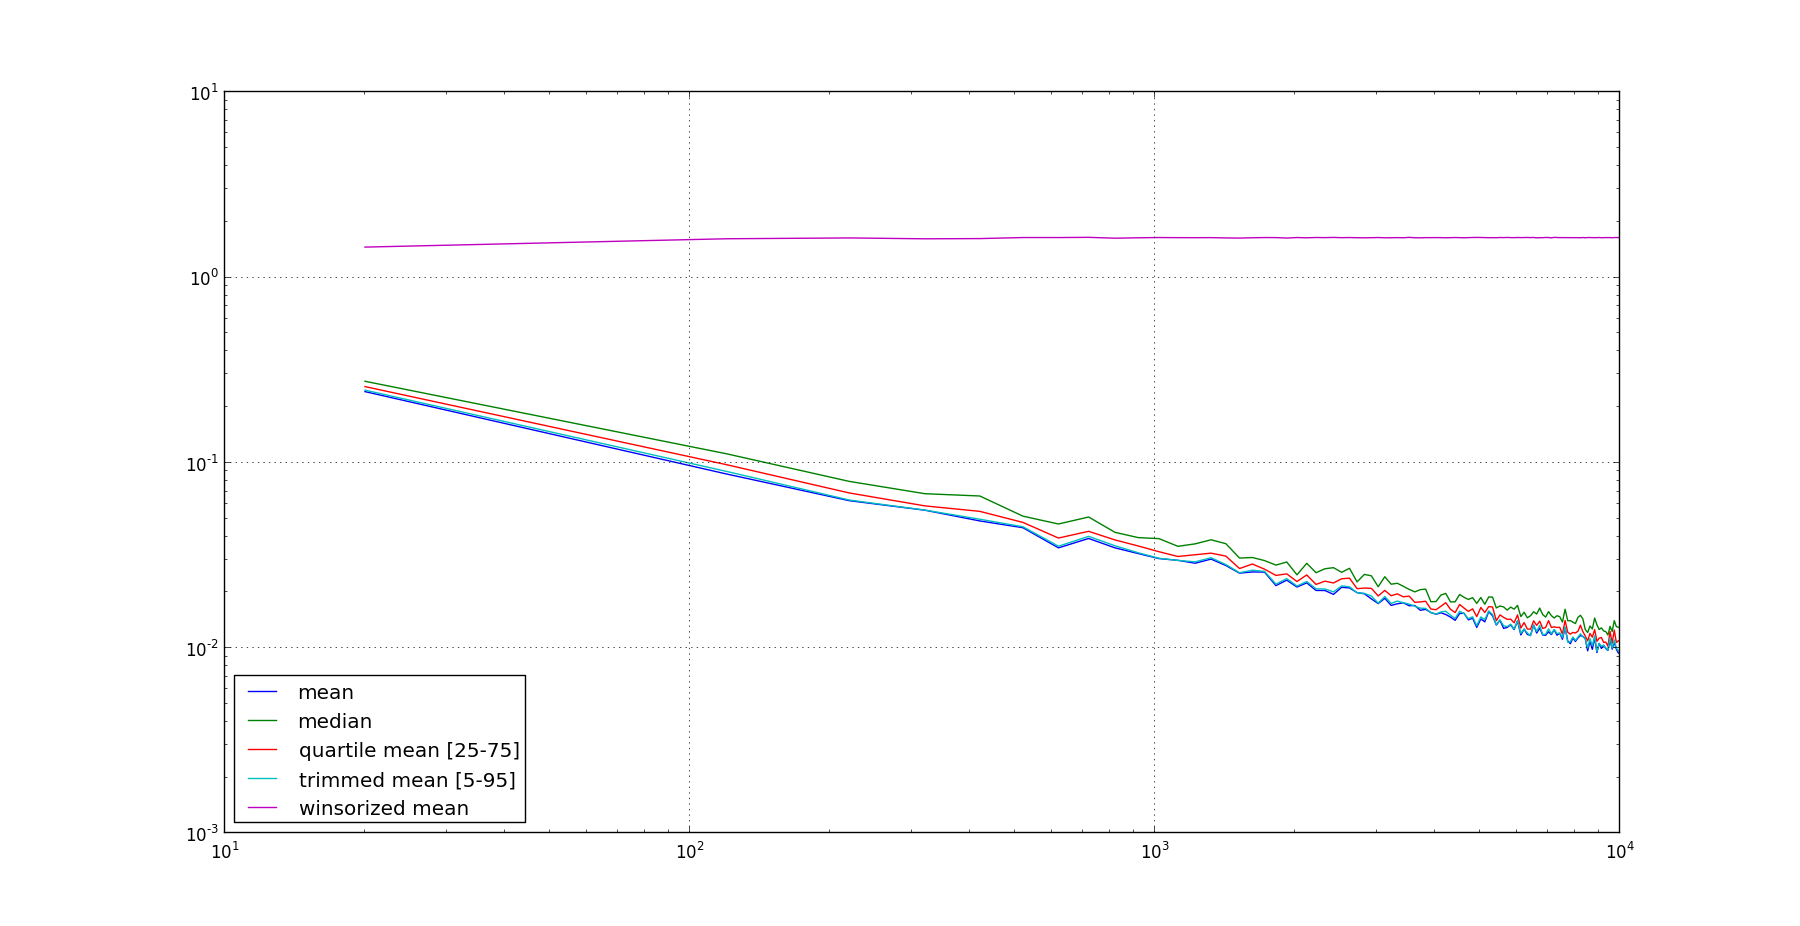
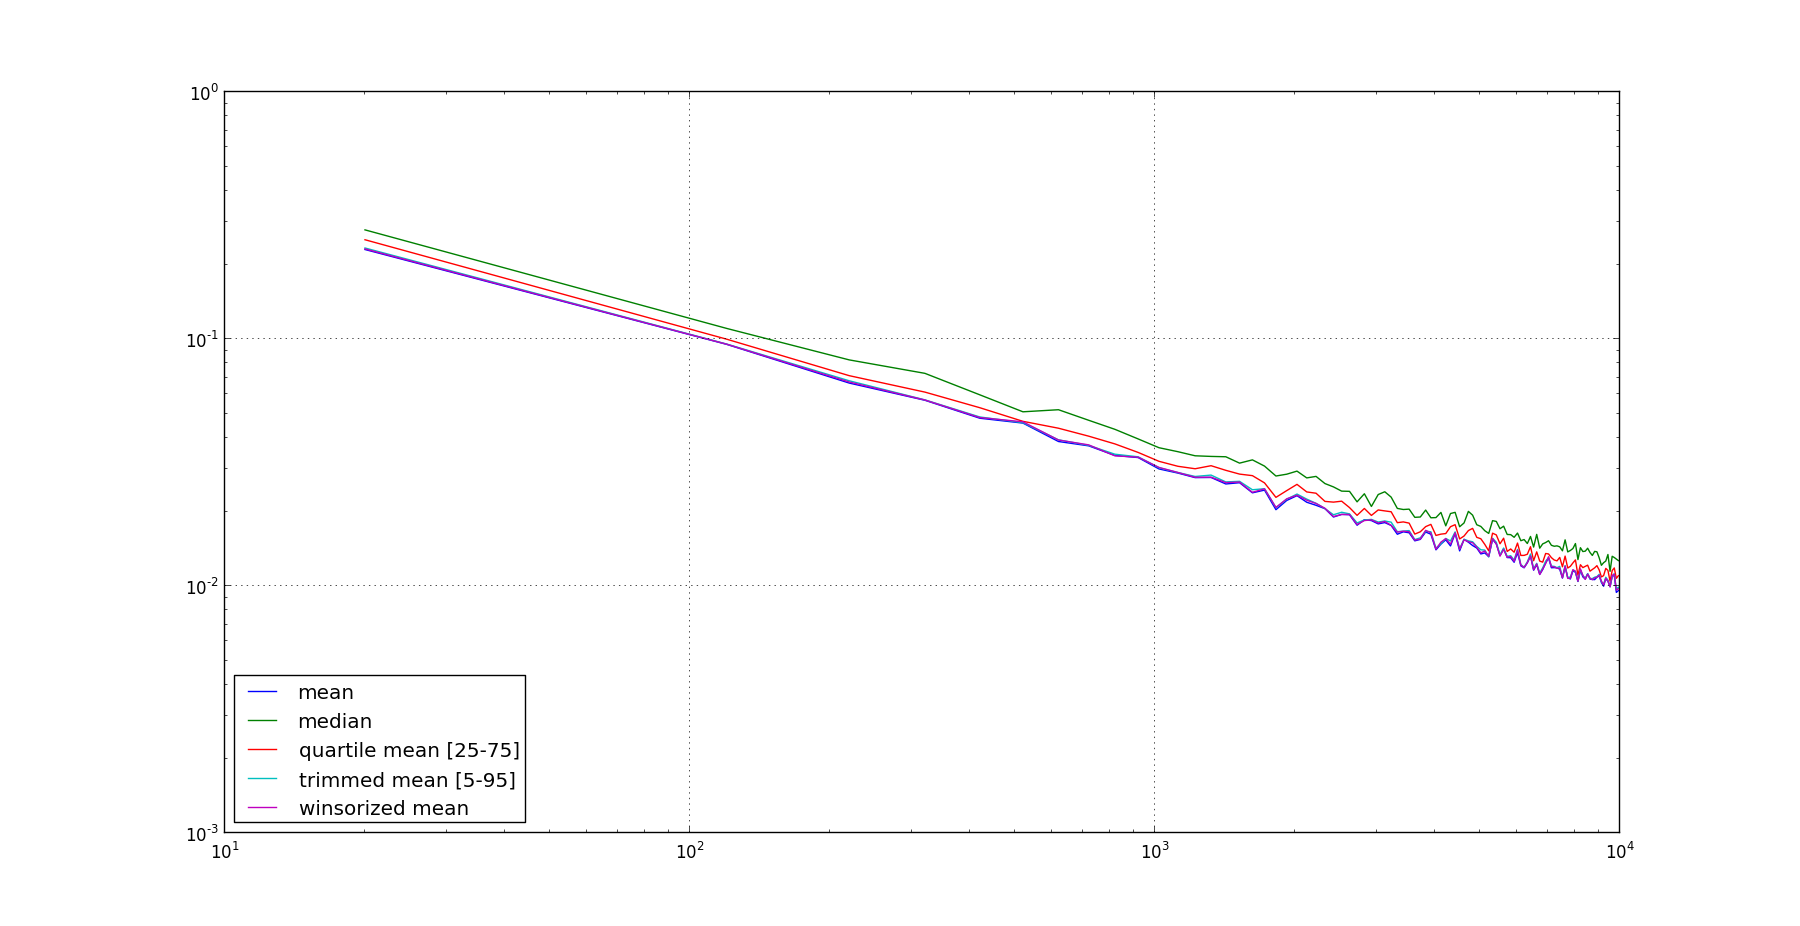
Stat winsorize fix

diff --git a/Stat/Estimation2/task2.py b/Stat/Estimation2/task2.py
@@ -29,7 +29,7 @@ for k_sampleSize, sample_size in enumerate(SAMPLES_SIZES):
         stat[1][test] = np.median(sample)
         stat[2][test] = tmean(sample, (perc[0], perc[1]))
         stat[3][test] = tmean(sample, (perc[2], perc[3]))
-        stat[4][test] = np.mean(winsorize(sample, (0.05, 0.95)))
+        stat[4][test] = np.mean(winsorize(sample, (0.05, 0.05)))
     for k_stat in range(5):
         res_rmse[k_stat][k_sampleSize] = RMSE(ACTUAL_VALUE, stat[k_stat])
     print k_sampleSize, N

diff --git a/Stat/Estimation2/task3.py b/Stat/Estimation2/task3.py
@@ -28,7 +28,7 @@ for k_sampleSize, sample_size in enumerate(SAMPLES_SIZES):
         stat[1][test] = np.median(sample)
         stat[2][test] = tmean(sample, (perc[0], perc[1]))
         stat[3][test] = tmean(sample, (perc[2], perc[3]))
-        stat[4][test] = np.mean(winsorize(sample, (0.05, 0.95)))
+        stat[4][test] = np.mean(winsorize(sample, (0.05, 0.05)))
     for k_stat in range(5):
         res_rmse[k_stat][k_sampleSize] = RMSE(ACTUAL_VALUE, stat[k_stat])
     print k_sampleSize, N
